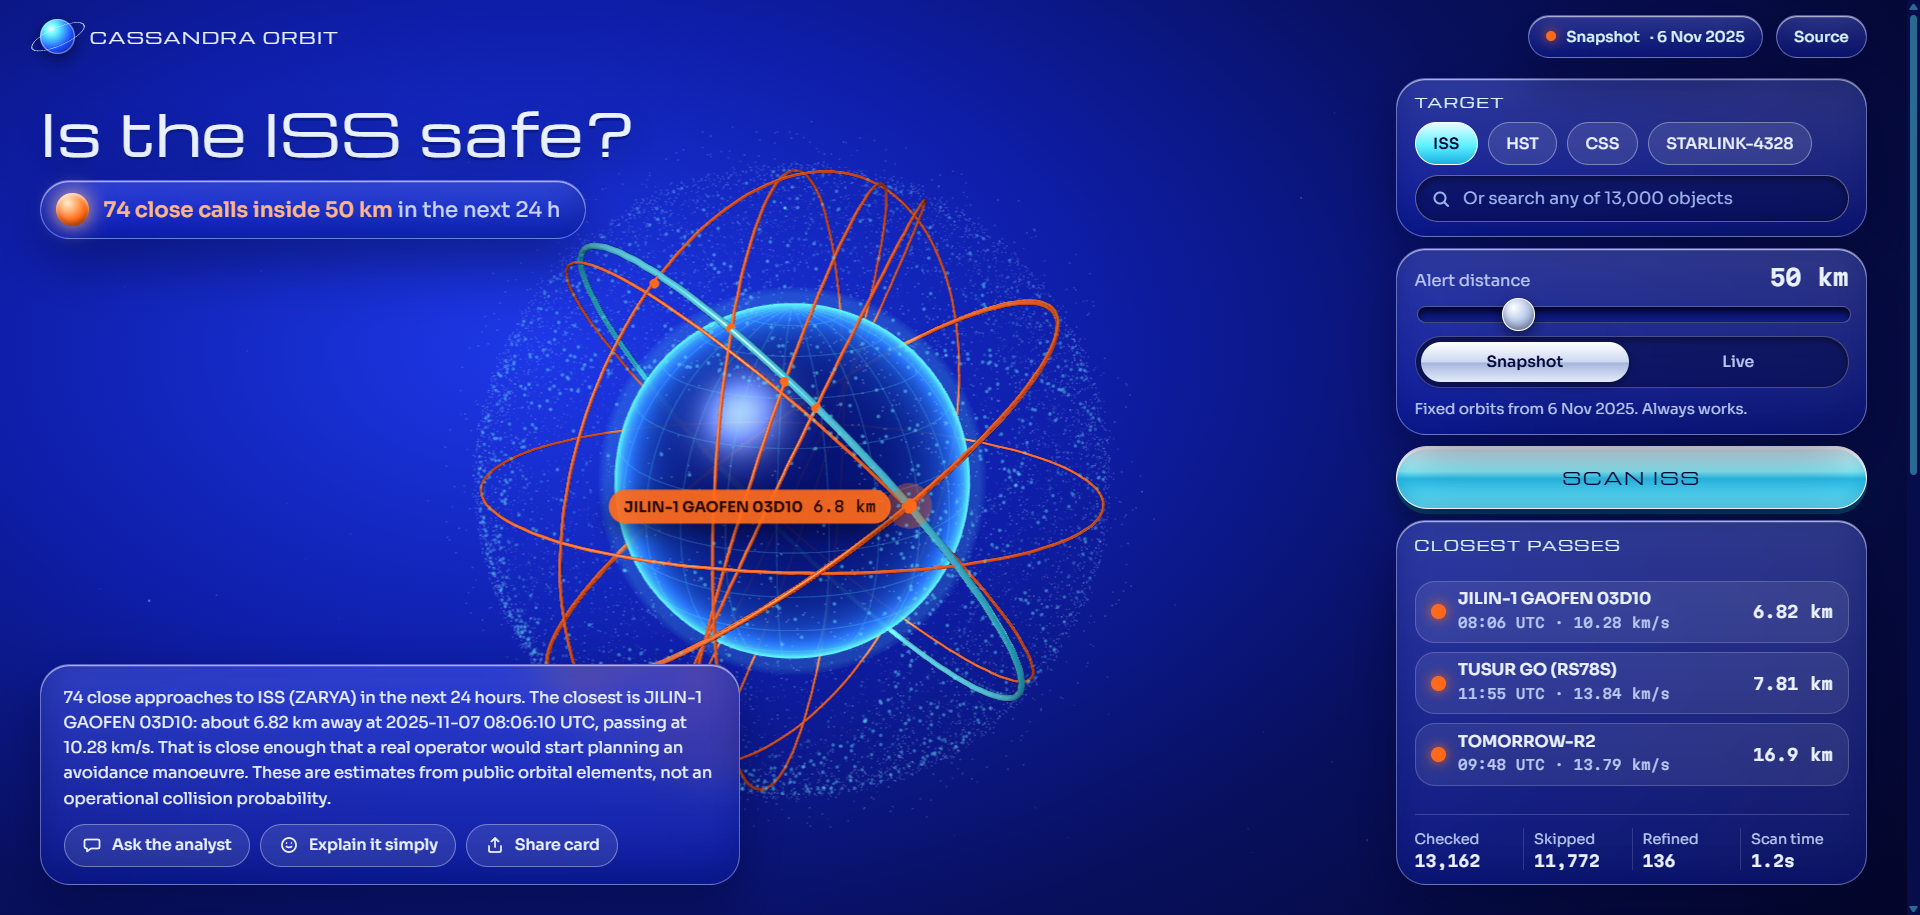
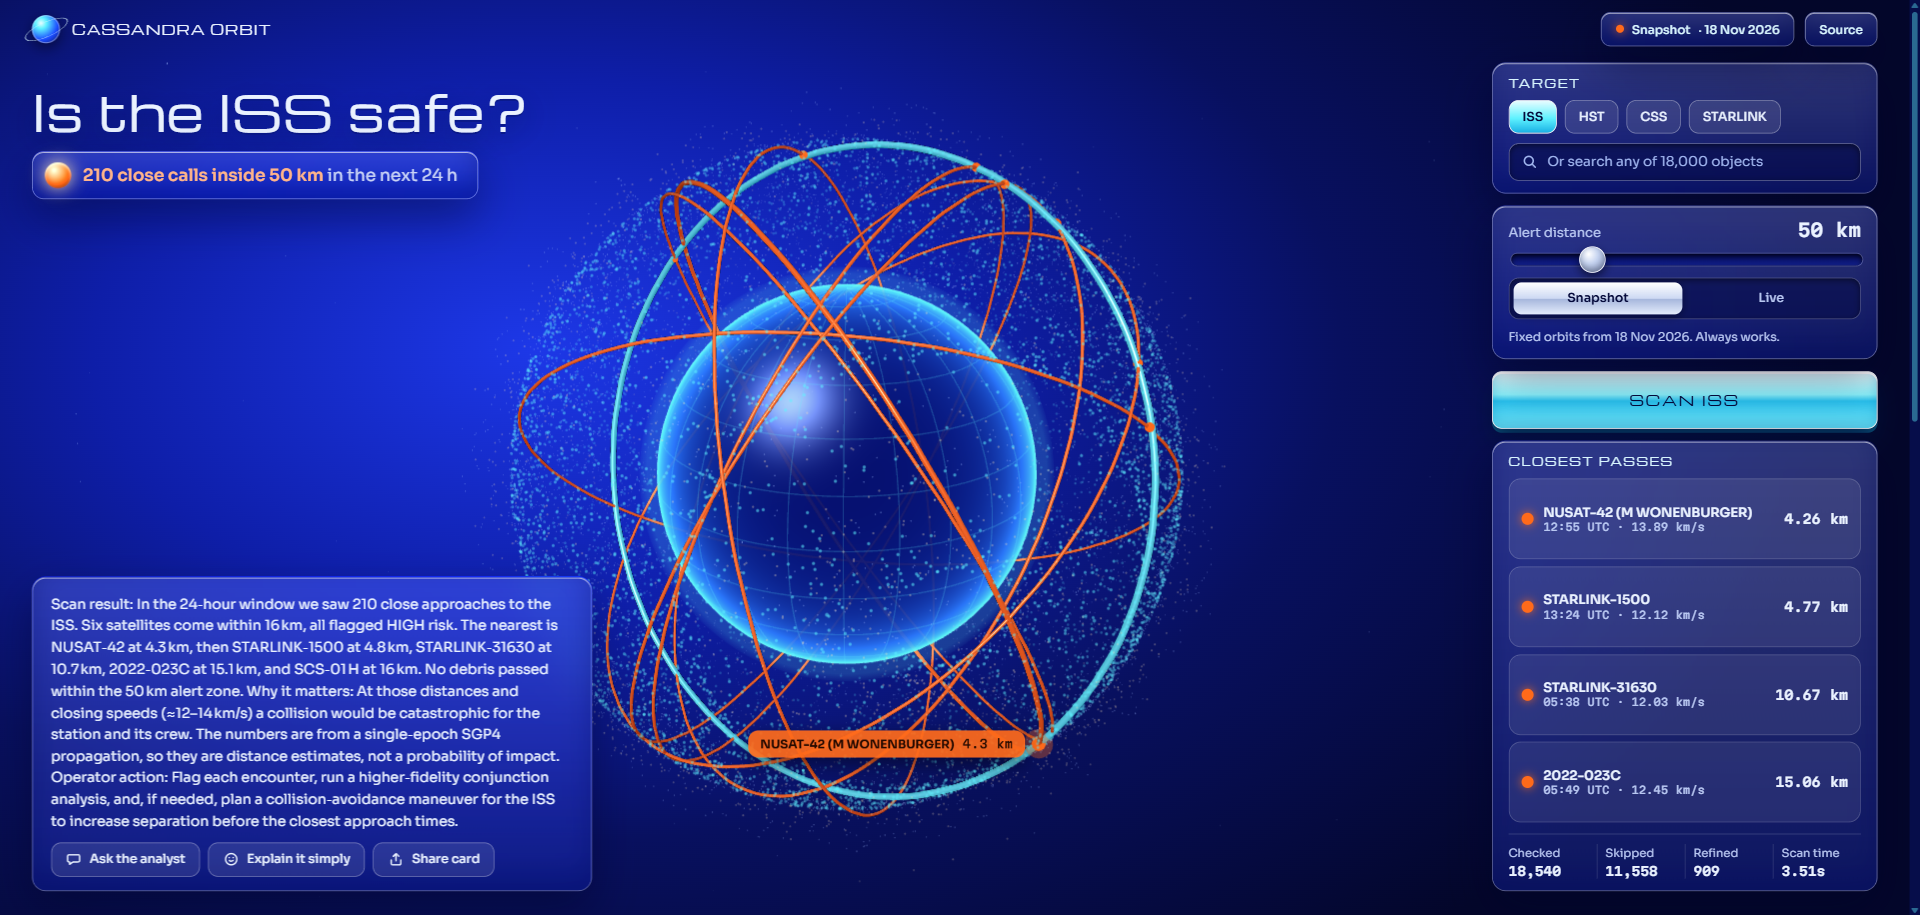
README: live link, fresh screenshots from the deployed site

diff --git a/README.md b/README.md
@@ -3,7 +3,7 @@
 </p>
 
 <p align="center">
-  <b>Live demo</b> (link added once deployed)
+  <a href="https://cassandra-orbit.vercel.app"><b>Live demo</b></a>
   &nbsp;·&nbsp;
   <a href="#how-it-works">How it works</a>
   &nbsp;·&nbsp;
@@ -25,13 +25,13 @@ Pick a satellite, hit **Scan**, and find out whether anything in orbit gets clos
 ## Features
 
 <p align="center">
-  <img src="assets/scan-hubble.png" alt="A Hubble scan: the whole catalogue as a point cloud around the glass Earth, Hubble's orbit in aqua and 126 close passes in tangerine" width="100%">
+  <img src="assets/scan-hubble.png" alt="A Hubble scan: the whole catalogue as a point cloud around the glass Earth, Hubble's orbit in aqua and 343 close passes in tangerine" width="100%">
 </p>
 
 * **A real physics scan.** Every object is flown forward 24 hours with SGP4, the standard orbit model, and the target is compared against all of them.
 * **Fast enough to feel live.** Objects that can never reach the target's altitude are dropped first, the rest are propagated in batches, and only the close ones are re-checked second by second. The ISS scan takes a few seconds instead of the original 17.
 * **Fast crossings are not missed.** Two objects meeting head-on close at 10 to 14 km/s, so a one-minute sampling grid can skip over the closest point. The re-check finds it (the closest ISS pass in the bundled snapshot is 6.8 km at 10.3 km/s).
-* **Snapshot or live orbits.** A bundled snapshot of 13,163 objects always works; the Live switch pulls today's orbits from CelesTrak (cached for two hours, as CelesTrak asks).
+* **Snapshot or live orbits.** A bundled snapshot of 18,000+ objects (satellites plus known debris), refreshed every day by a GitHub Action, always works; the Live switch pulls today's orbits from CelesTrak (cached for two hours, as CelesTrak asks).
 * **A 3D view you can drag and poke.** The whole catalogue as a point cloud, the target's orbit and every threat's full orbit as a closed ring. Hover an orbit to see who it is, tap or click it to pin it (the pass list and table do the same).
 * **An AI analyst.** A plain-language briefing for every scan, an "explain it simply" mode, and a chat that only knows that scan. It sees the numbers, nothing else.
 * **A shareable close-call card.** One tap turns the scan into a 4:5 image.
@@ -65,7 +65,7 @@ The first screen opens with a precomputed ISS scan bundled in `public/demo.json`
 
 ### A note on orbit data
 
-TLEs go stale within days. The snapshot is fixed, so a scan on it starts from the snapshot's own date, not from today, and says so on screen. Use **Live** for today's orbits.
+TLEs go stale within days. The snapshot is refreshed daily, but a scan on it still starts from the snapshot's own date, not from today, and says so on screen. Use **Live** for today's orbits.
 
 ## Tech stack
 
